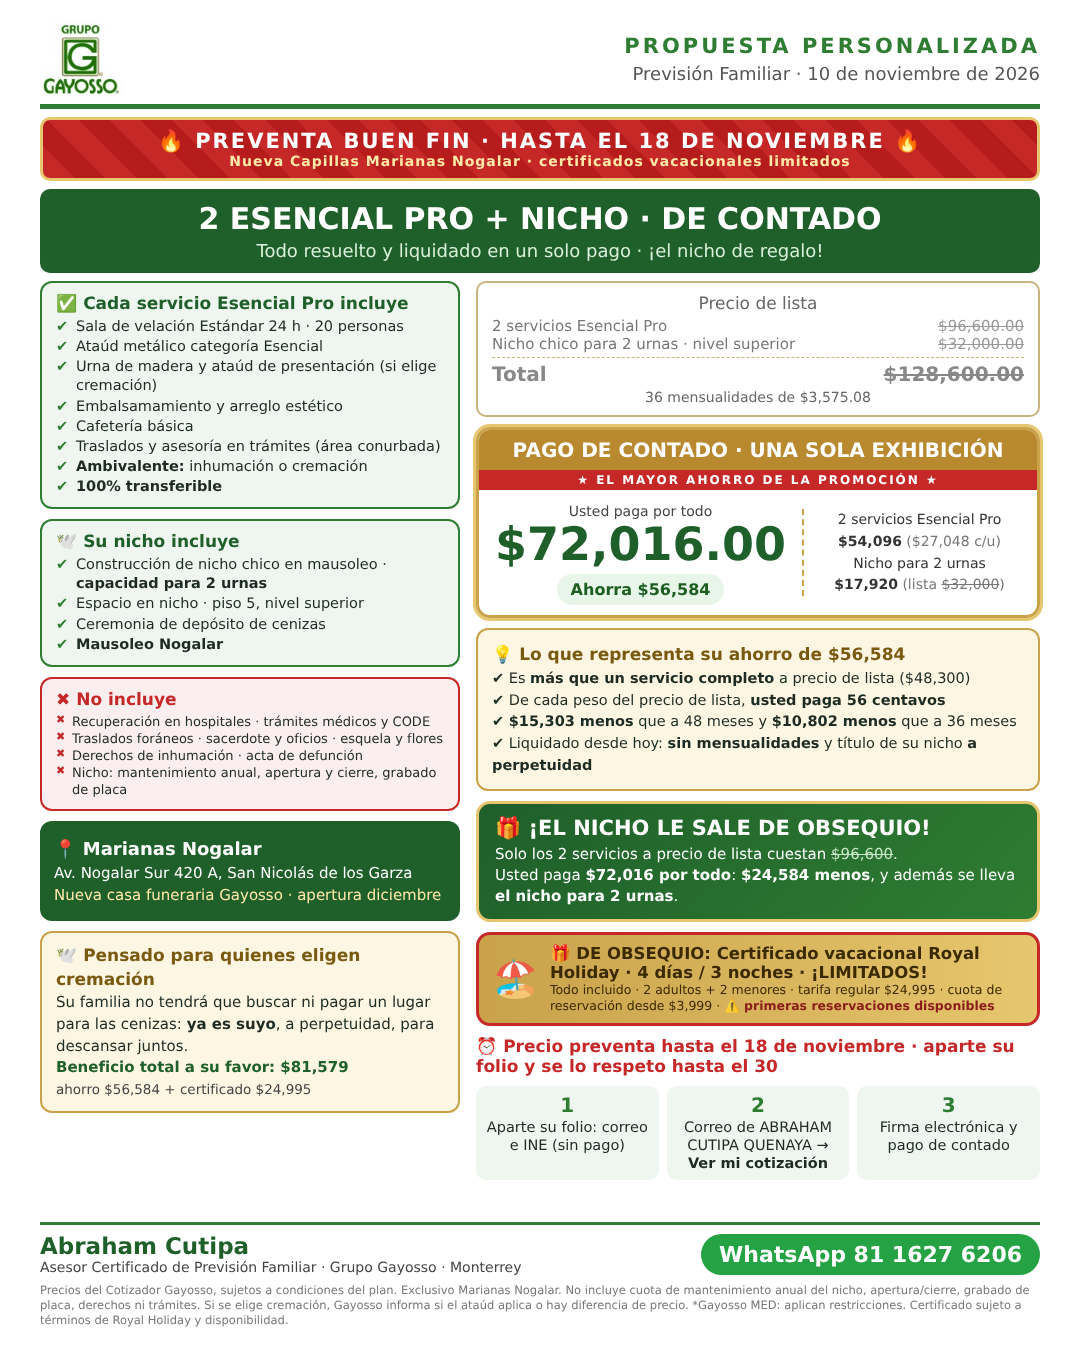
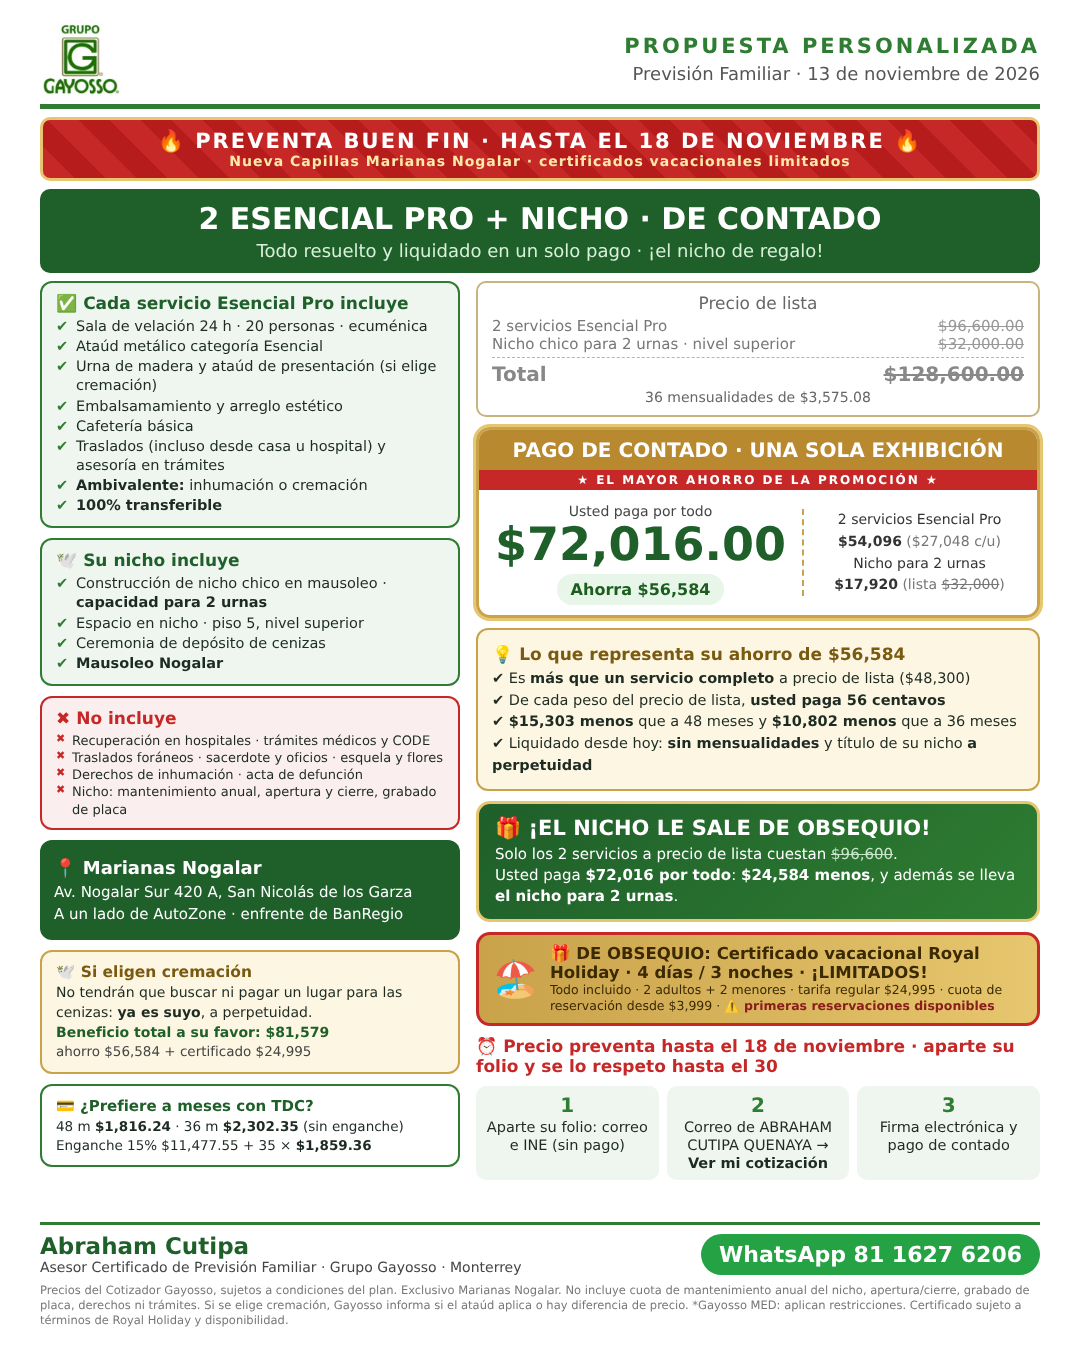
Propuesta contado 2 Esencial + nicho Nogalar: ubicación, traslados, opciones a meses
Claude-Session: https://claude.ai/code/session_01PccRGVGwaaPKDitcWkgoNs

Changed region(s): [[0.0306, 0.3111, 0.4278, 0.8711], [0.1833, 0.2178, 0.3972, 0.2489]]

diff --git a/propuesta/contado_esencial2nicho_nogalar.html b/propuesta/contado_esencial2nicho_nogalar.html
@@ -58,12 +58,12 @@ body{width:1080px;height:1350px;font-family:"DejaVu Sans",Arial,sans-serif;backg
 <div class="main">
  <div class="side">
   <div class="box inc"><h3>✅ Cada servicio Esencial Pro incluye</h3><ul>
-   <li>Sala de velación Estándar 24 h · 20 personas</li>
+   <li>Sala de velación 24 h · 20 personas · ecuménica</li>
    <li>Ataúd metálico categoría Esencial</li>
    <li>Urna de madera y ataúd de presentación (si elige cremación)</li>
    <li>Embalsamamiento y arreglo estético</li>
    <li>Cafetería básica</li>
-   <li>Traslados y asesoría en trámites (área conurbada)</li>
+   <li>Traslados (incluso desde casa u hospital) y asesoría en trámites</li>
    <li><b>Ambivalente:</b> inhumación o cremación</li>
    <li><b>100% transferible</b></li></ul></div>
   <div class="box inc"><h3>🕊 Su nicho incluye</h3><ul>
@@ -76,8 +76,9 @@ body{width:1080px;height:1350px;font-family:"DejaVu Sans",Arial,sans-serif;backg
    <li>Traslados foráneos · sacerdote y oficios · esquela y flores</li>
    <li>Derechos de inhumación · acta de defunción</li>
    <li>Nicho: mantenimiento anual, apertura y cierre, grabado de placa</li></ul></div>
-  <div class="box" style="background:#1f5f2a;color:#fff;font-size:15px;line-height:1.5;padding:14px"><b style="font-size:18px">📍 Marianas Nogalar</b><br>Av. Nogalar Sur 420 A, San Nicolás de los Garza<br><span style="color:#ffe9a8">Nueva casa funeraria Gayosso · apertura diciembre</span></div>
-  <div class="box" style="background:#fdf6e3;border:2px solid #c9a24a;font-size:15px;line-height:1.45"><b style="color:#7a5a10;font-size:17px">🕊 Pensado para quienes eligen cremación</b><br>Su familia no tendrá que buscar ni pagar un lugar para las cenizas: <b>ya es suyo</b>, a perpetuidad, para descansar juntos.<br><span style="color:#1f5f2a;font-weight:bold">Beneficio total a su favor: $81,579<br><span style="font-weight:normal;color:#444;font-size:13.5px">ahorro $56,584 + certificado $24,995</span></span></div>
+  <div class="box" style="background:#1f5f2a;color:#fff;font-size:15px;line-height:1.5;padding:14px"><b style="font-size:18px">📍 Marianas Nogalar</b><br>Av. Nogalar Sur 420 A, San Nicolás de los Garza<br>A un lado de AutoZone · enfrente de BanRegio</div>
+  <div class="box" style="background:#fdf6e3;border:2px solid #c9a24a;font-size:14px;line-height:1.4"><b style="color:#7a5a10;font-size:15.5px">🕊 Si eligen cremación</b><br>No tendrán que buscar ni pagar un lugar para las cenizas: <b>ya es suyo</b>, a perpetuidad.<br><span style="color:#1f5f2a;font-weight:bold">Beneficio total a su favor: $81,579<br><span style="font-weight:normal;color:#444;font-size:13.5px">ahorro $56,584 + certificado $24,995</span></span></div>
+  <div class="box" style="background:#fff;border:2px solid #2e7d32;font-size:13.5px;line-height:1.4"><b style="color:#1f5f2a;font-size:15px">💳 ¿Prefiere a meses con TDC?</b><br>48 m <b>$1,816.24</b> · 36 m <b>$2,302.35</b> (sin enganche)<br>Enganche 15% $11,477.55 + 35 × <b>$1,859.36</b></div>
  </div>
  <div class="right">
   <div class="lista"><div class="l">Precio de lista</div>
